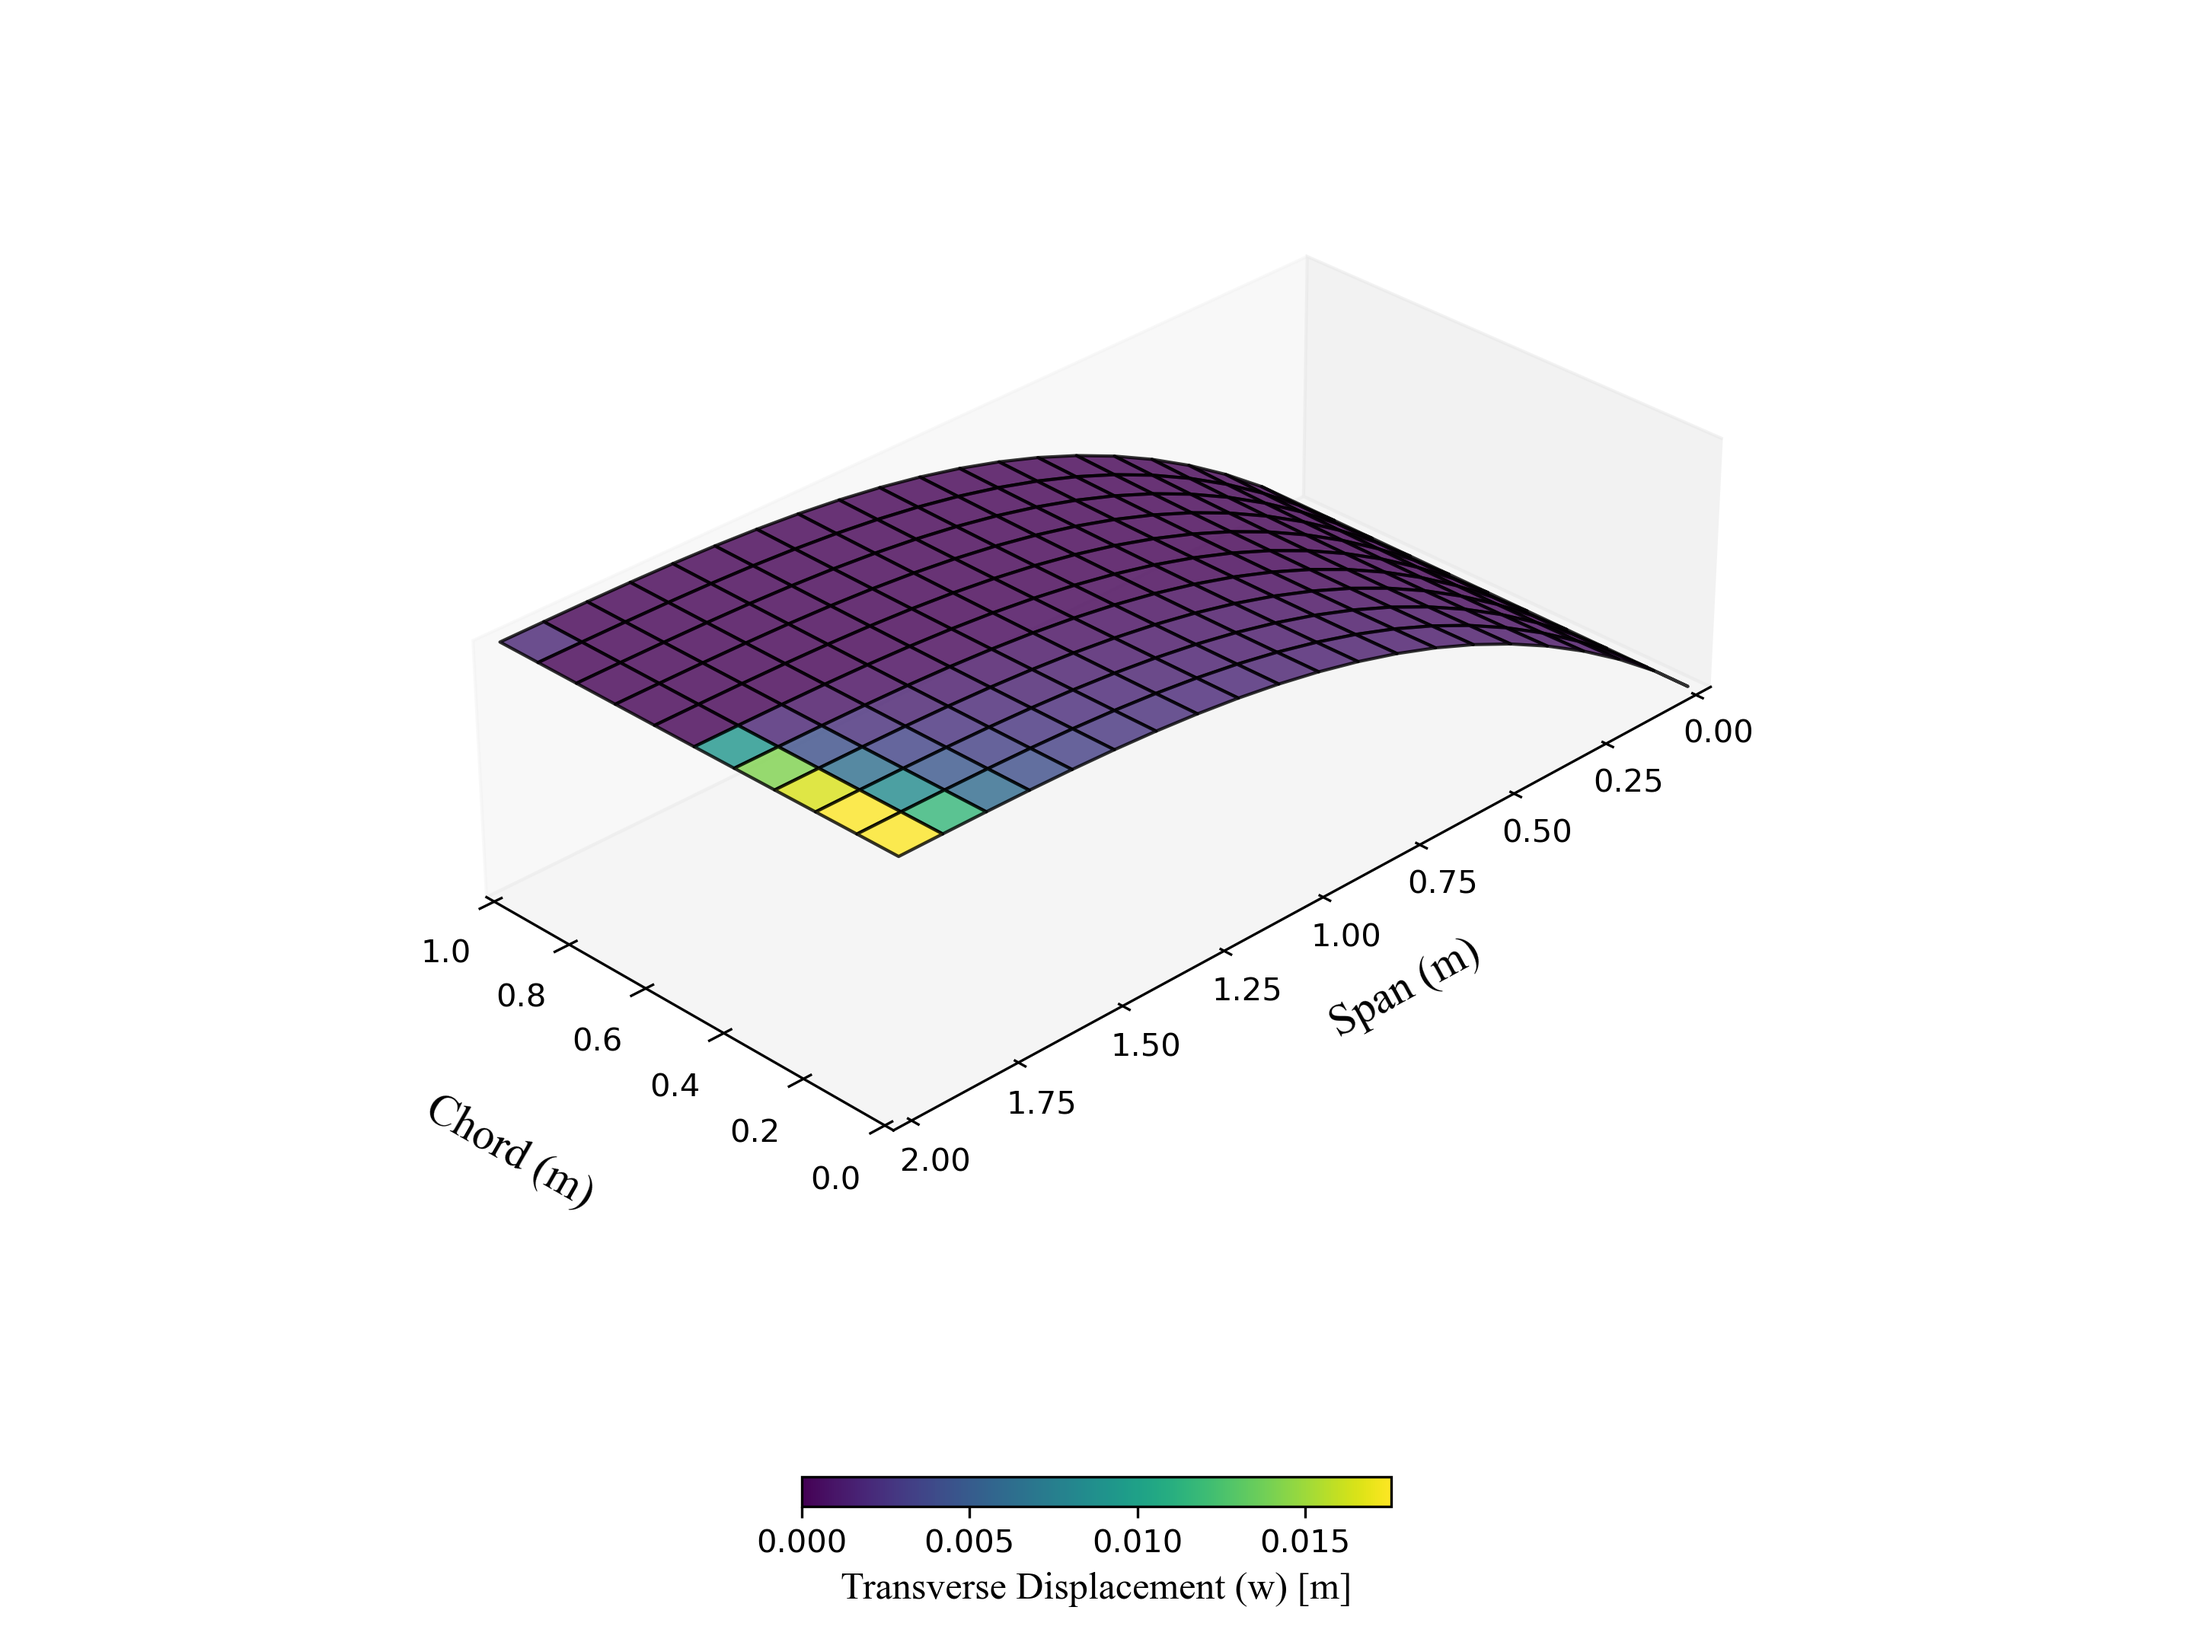
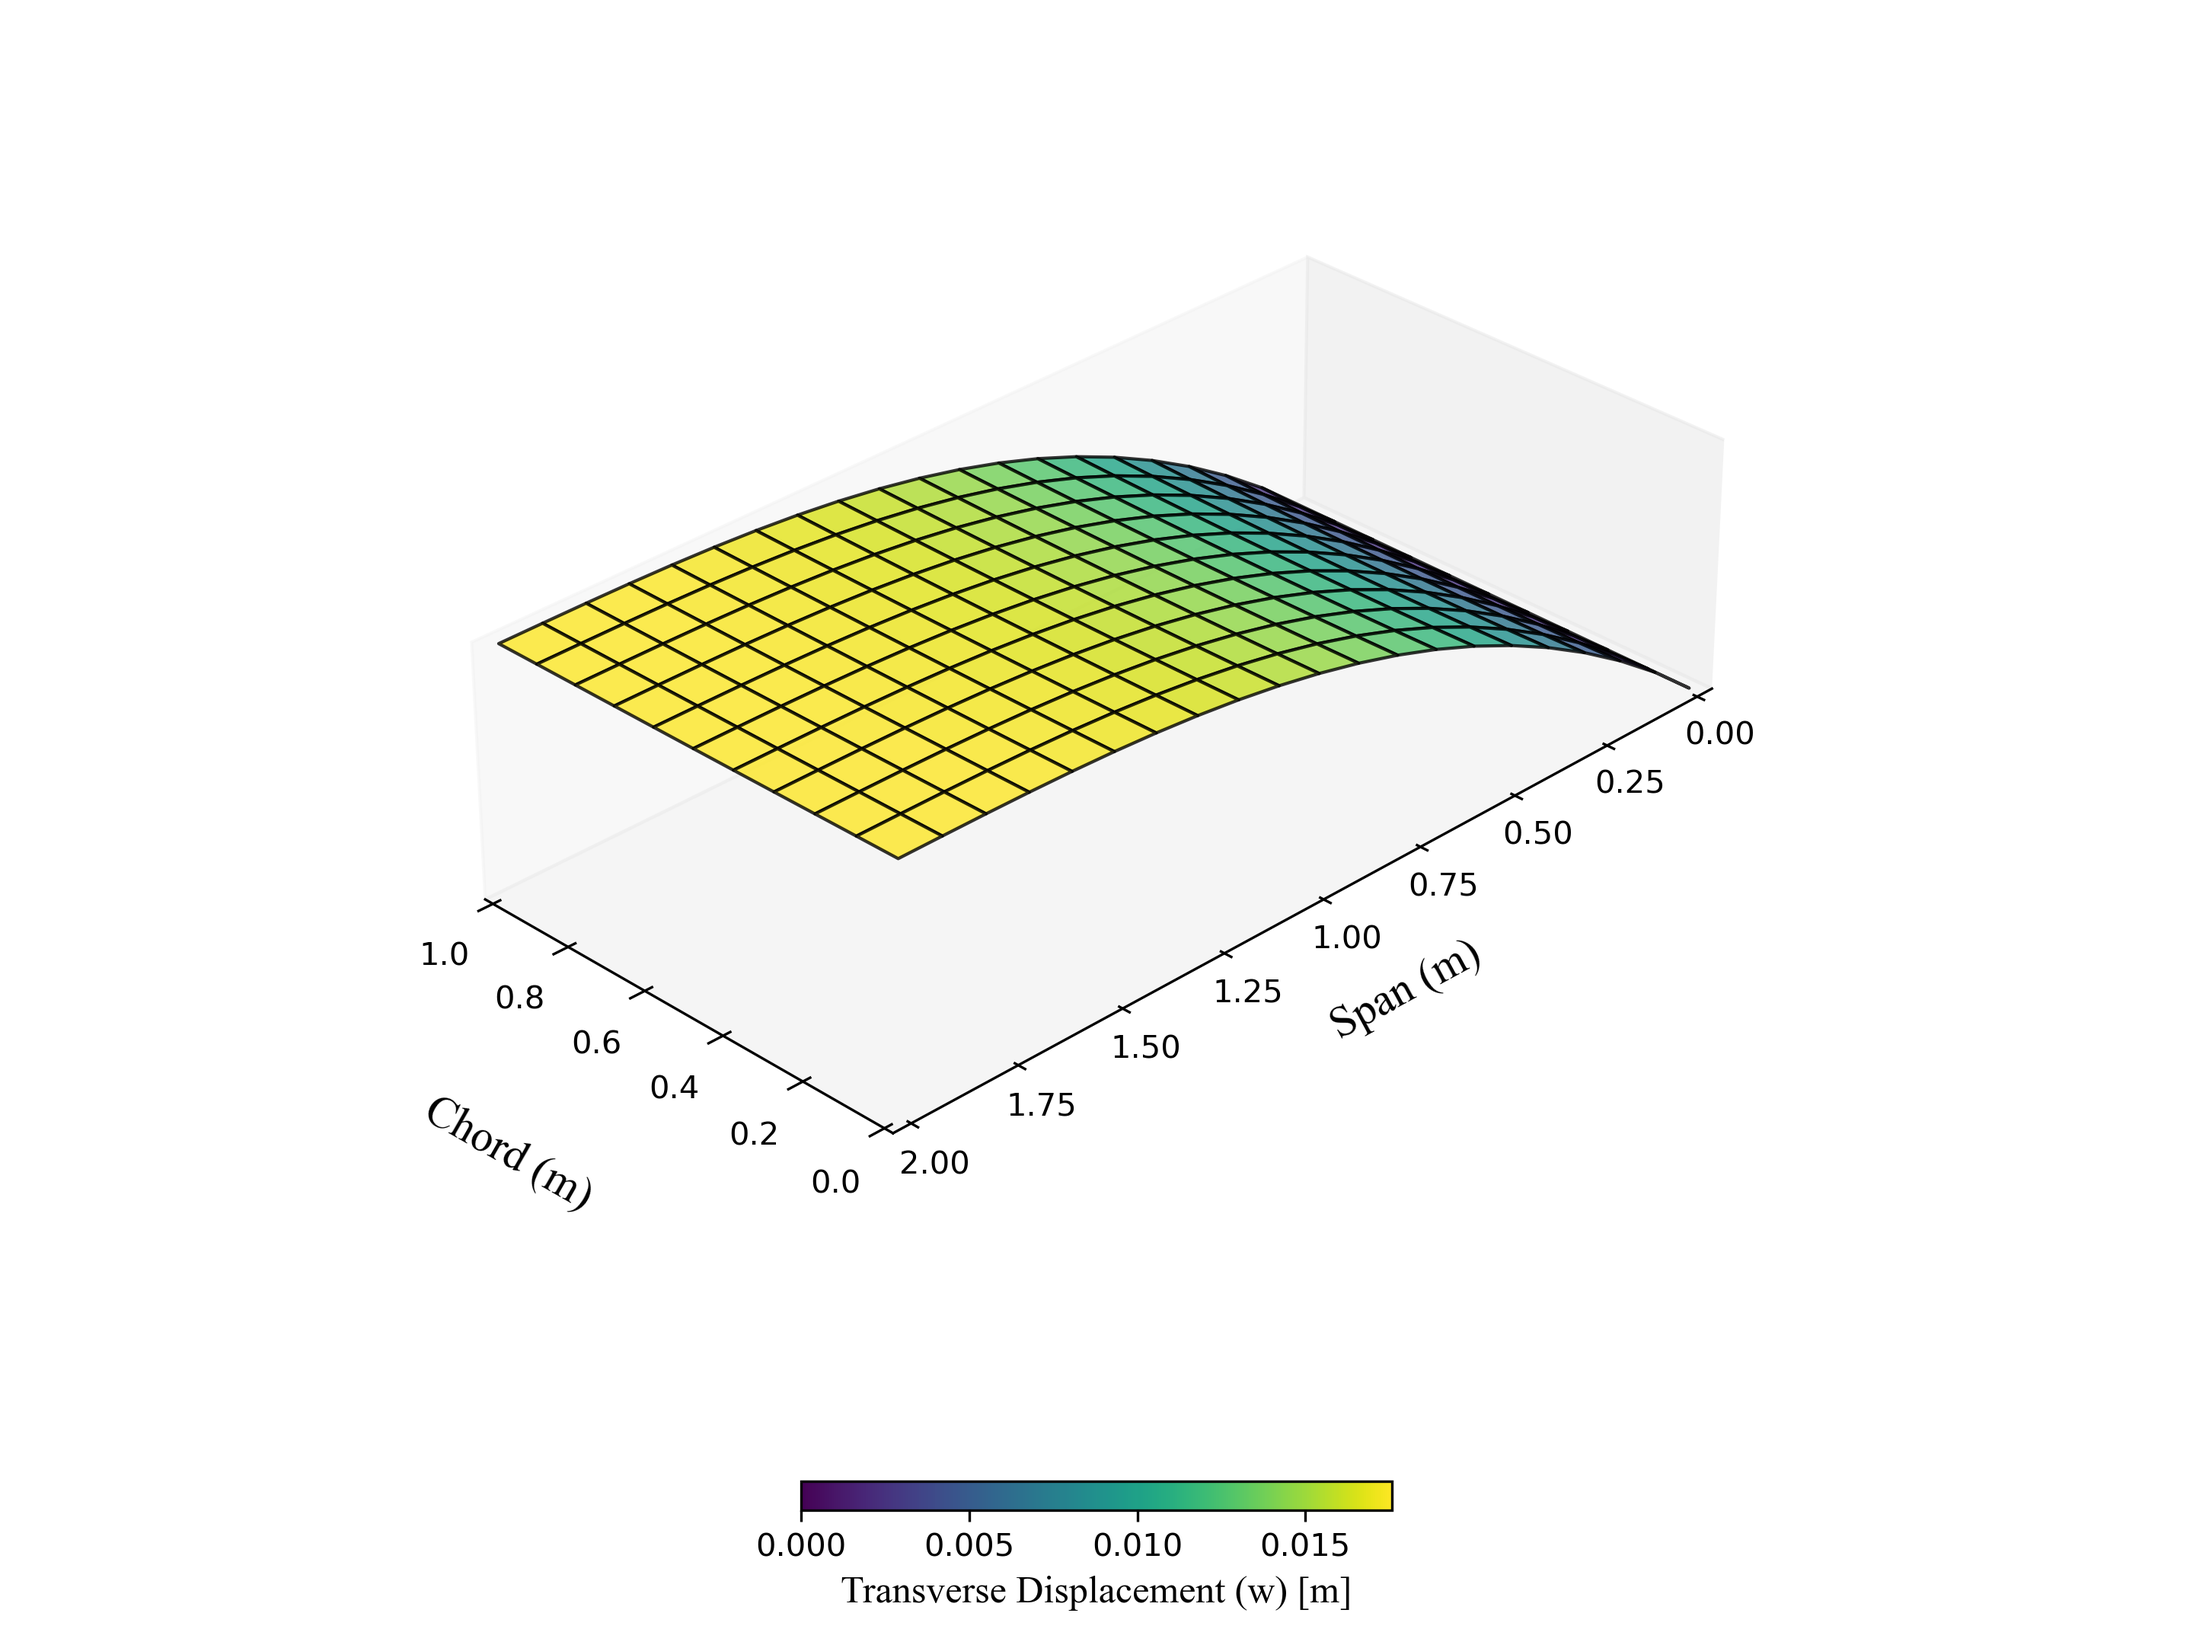
fix displaced body rep

diff --git a/FEA/output.py b/FEA/output.py
@@ -7,7 +7,7 @@ from mpl_toolkits.mplot3d.art3d import Poly3DCollection
 def plot_displaced_body(nodes, displacements, dof_per_node, elements, scale_factor=1.0):
     """
     Plot the displaced body of the plate in 3D without axes and with a horizontal colorbar.
-    
+
     Parameters:
         nodes : ndarray
             Nodal coordinates of the plate (Nx2 array where N is the number of nodes).
@@ -17,38 +17,37 @@ def plot_displaced_body(nodes, displacements, dof_per_node, elements, scale_fact
             Number of degrees of freedom per node (e.g., 3 for Reissner-Mindlin plate elements).
         elements : ndarray
             Element connectivity matrix (Ex4 array for quadrilateral elements).
-        title : str
-            Title of the plot.
         scale_factor : float
             Factor to scale the displacements for better visualization.
     """
     import matplotlib.pyplot as plt
     from mpl_toolkits.mplot3d import Axes3D
+    from mpl_toolkits.mplot3d.art3d import Poly3DCollection
+    import os
+
+    # Create output directory
+    os.makedirs('Plots', exist_ok=True)
 
     # Extract transverse displacements (w) for each node
     w_displacements = displacements[0::dof_per_node] * scale_factor
-    
-    #print(w_displacements)
 
     # Create the 3D figure
     fig = plt.figure()
     ax = fig.add_subplot(111, projection='3d')
     ax.set_facecolor('white')  # Set background color to white
-    
-    # Make the background enclosed by the axes transparent
-    ax.patch.set_alpha(0)  # Set patch background transparency to 0
-    
+
     # Plot the plate surface (displaced shape)
     for elem in elements:
         # Get nodal coordinates and displacements for the current element
         x = nodes[elem, 0]
         y = nodes[elem, 1]
         z = w_displacements[elem]  # Scaled displacements
-        
+
         # Create the polygon for the element
         verts = [list(zip(x, y, z))]
         poly = Poly3DCollection(verts, alpha=0.8, edgecolor='k')
-        poly.set_facecolor(plt.cm.viridis((z - z.min()) / (z.max() - z.min())))  # Map displacement to color
+        # Normalize z globally for color mapping
+        poly.set_facecolor(plt.cm.viridis((z - w_displacements.min()) / (w_displacements.max() - w_displacements.min())))
         ax.add_collection3d(poly)
 
     # Set axis limits explicitly to ensure the plot is not cut
@@ -61,45 +60,111 @@ def plot_displaced_body(nodes, displacements, dof_per_node, elements, scale_fact
     
     for axis in ['top','bottom','left','right']:
         ax.spines[axis].set_linewidth(1.5)
-    
+
     # Set axis labels
     ax.set_xlabel('Chord (m)', fontsize=14, fontname="Times New Roman", labelpad=20)
     ax.set_ylabel('Span (m)', fontsize=14, fontname="Times New Roman", labelpad=20)
-    
+
     # Turn off the z-axis
     ax.zaxis.set_visible(False)
     ax.zaxis.set_tick_params(labelsize=0, colors=(1, 1, 1, 0))  # Hide ticks
     ax.zaxis.line.set_color((1, 1, 1, 0))  # Hide the axis line
     ax.zaxis.label.set_color((1, 1, 1, 0))  # Hide the label
 
-    
-    #ax.set_zlabel('Transverse Displacement (w) [m]', fontsize=24, fontname="Times New Roman", labelpad=20)
-
+    # Add colorbar horizontally
+    mappable = plt.cm.ScalarMappable(cmap='viridis', norm=plt.Normalize(vmin=w_displacements.min(), vmax=w_displacements.max()))
+    mappable.set_array(w_displacements)
+    cbar = fig.colorbar(mappable, ax=ax, orientation='horizontal', pad=0.1, fraction=0.02)
+    cbar.set_label('Transverse Displacement (w) [m]', fontsize=12, fontname="Times New Roman")
 
     # Hide the axes and grid
     ax.grid(False)
     ax.axis("on")
     
-    # Add colorbar horizontally
-    mappable = plt.cm.ScalarMappable(cmap='viridis', norm=plt.Normalize(vmin=w_displacements.min(), vmax=w_displacements.max()))
-    mappable.set_array(w_displacements)
-    cbar = fig.colorbar(mappable, ax=ax, orientation='horizontal', pad=0.1, fraction=0.02)
-    cbar.set_label('Transverse Displacement (w) [m]', fontsize=12, fontname = "Times New Roman")
-
-    # Set the aspect ratio and view angle
-    ax.view_init(elev=30, azim=135)  # Isometric view
+    # Set the view angle
+    ax.view_init(elev=30, azim=135)
     ax.set_box_aspect([1, 2, 0.5])  # Adjust aspect ratio (X:Y:Z)
     
     F = plt.gcf()
     Size = F.get_size_inches()
     F.set_size_inches(Size[0]*1.5, Size[1]*1.5, forward=True) # Set forward to True to resize window along with plot in figure.
 
+    
     plt.rcParams['figure.dpi'] = 300
     plt.rcParams['savefig.dpi'] = 300
-    
-    # Show plot
+
+    # Save the figure
     plt.tight_layout()
-    plt.savefig('Plots/CFRP_Plate_Displaced.png')
+    plt.savefig('Plots/CFRP_Plate_Displaced.png', dpi=300)
+
+    # Show plot
+    #plt.show()
+
+def plot_displacement_contours(nodes, displacements, dof_per_node, elements, scale_factor=1.0):
+    """
+    Plot a 2D surface plot of the displacement contours.
+
+    Parameters:
+        nodes : ndarray
+            Nodal coordinates of the plate (Nx2 array where N is the number of nodes).
+        displacements : ndarray
+            Global displacement vector (size: num_dof).
+        dof_per_node : int
+            Number of degrees of freedom per node (e.g., 3 for Reissner-Mindlin plate elements).
+        elements : ndarray
+            Element connectivity matrix (Ex4 array for quadrilateral elements).
+        scale_factor : float
+            Factor to scale the displacements for better visualization.
+    """
+    import matplotlib.pyplot as plt
+    import matplotlib.tri as tri
+    
+    # Convert quadrilateral elements to triangles
+    triangles = []
+    for elem in elements:
+        # Split the quadrilateral into two triangles
+        triangles.append([elem[0], elem[1], elem[2]])  # Triangle 1
+        triangles.append([elem[0], elem[2], elem[3]])  # Triangle 2
+    triangles = np.array(triangles)
+
+    # Extract transverse displacements (w) for each node
+    w_displacements = displacements[0::dof_per_node] * scale_factor
+
+    # Create a triangular grid for plotting
+    triangulation = tri.Triangulation(nodes[:, 0], nodes[:, 1], triangles)
+
+    # Create the 2D contour plot
+    plt.figure()
+    contour = plt.tricontourf(triangulation, w_displacements, levels=10, cmap='viridis')
+
+    # Add a colorbar
+    cbar = plt.colorbar(contour, orientation='horizontal', pad=0.1, fraction = 0.03)
+    cbar.set_label('Transverse Displacement (m)', fontsize=12, fontname="Times New Roman")
+    cbar.ax.tick_params(labelsize=10)
+
+    # Set plot titles and labels
+    plt.xlabel('Chord (m)', fontsize=12, fontname="Times New Roman")
+    plt.ylabel('Span (m)', fontsize=12, fontname="Times New Roman")
+    plt.axis("equal")
+
+    # Adjust axis limits
+    #plt.xlim(nodes[:, 0].min(), nodes[:, 0].max())
+    #plt.ylim(nodes[:, 1].min(), nodes[:, 1].max())
+
+    plt.tight_layout()
+    F = plt.gcf()
+    Size = F.get_size_inches() 
+    F.set_size_inches(Size[0]*1.5, Size[1]*1.5, forward=True) # Set forward to True to resize window along with plot in figure.
+
+    plt.axis("off")
+    plt.grid(False)
+    plt.rcParams['figure.dpi'] = 300
+    plt.rcParams['savefig.dpi'] = 300
+    plt.savefig('Plots/CFRP_Plate_Weight.png')
+
+    # Show the plot
+    plt.show()
+
 
 def plot_weight_loads(nodes, elements, load_vector, dof_per_node):
     """

diff --git a/FEA/tapered_thickness_laminate.py b/FEA/tapered_thickness_laminate.py
@@ -32,7 +32,7 @@ x_coords, y_coords, nodes, elements = generateMesh(Lx, Ly, nx, ny)
 # Degrees of freedom per node
 dof_per_node = 3  # w, theta_x, theta_y
 
-# Define symmetric laminate
+#-------------------------------LAMINATE DEFINITION--------------------#
 def define_symmetric_laminate(base_ply, stacking_sequence):
     laminate = []
     for angle in stacking_sequence:
@@ -43,12 +43,25 @@ def define_symmetric_laminate(base_ply, stacking_sequence):
     laminate += symmetric_part
     return laminate
 
+# CFRP Ply and Laminate Definition
 base_ply = {
-    "E1": 140e9, "E2": 10e9, "G12": 5e9,
-    "nu12": 0.3, "thickness": 0.000125, "density": 1600
+    "E1": 140e9,  # Longitudinal modulus (Pa)
+    "E2": 10e9,   # Transverse modulus (Pa)
+    "G12": 5e9,   # Shear modulus (Pa)
+    "nu12": 0.3,  # Poisson's ratio
+    "density": 1600,  # Density (kg/m^3)
+    "thickness": 0.000125  # Ply thickness (m)
 }
+
+# Symmetric laminate
 stacking_sequence = [0, 45, -45, 90]
+
+# Quasi-iso-tropic laminate
+#stacking_sequence = [0, 90]
+
 plies = define_symmetric_laminate(base_ply, stacking_sequence)
+
+#------------------------------END-----------------------#
 
 # Thickness taper function
 def thickness_taper(y, y_min, y_max, t_min, t_max):
@@ -266,6 +279,7 @@ load_reduced = load[free_dofs]
 displacements = np.zeros(num_dof)
 displacements[free_dofs] = np.linalg.solve(K_reduced, load_reduced)
 
+plot_displacement_contours(nodes, displacements, dof_per_node, elements, scale_factor=1.0)
 
 # Post-processing....
 plot_displaced_body(nodes, displacements, dof_per_node, elements, scale_factor=1.0)
